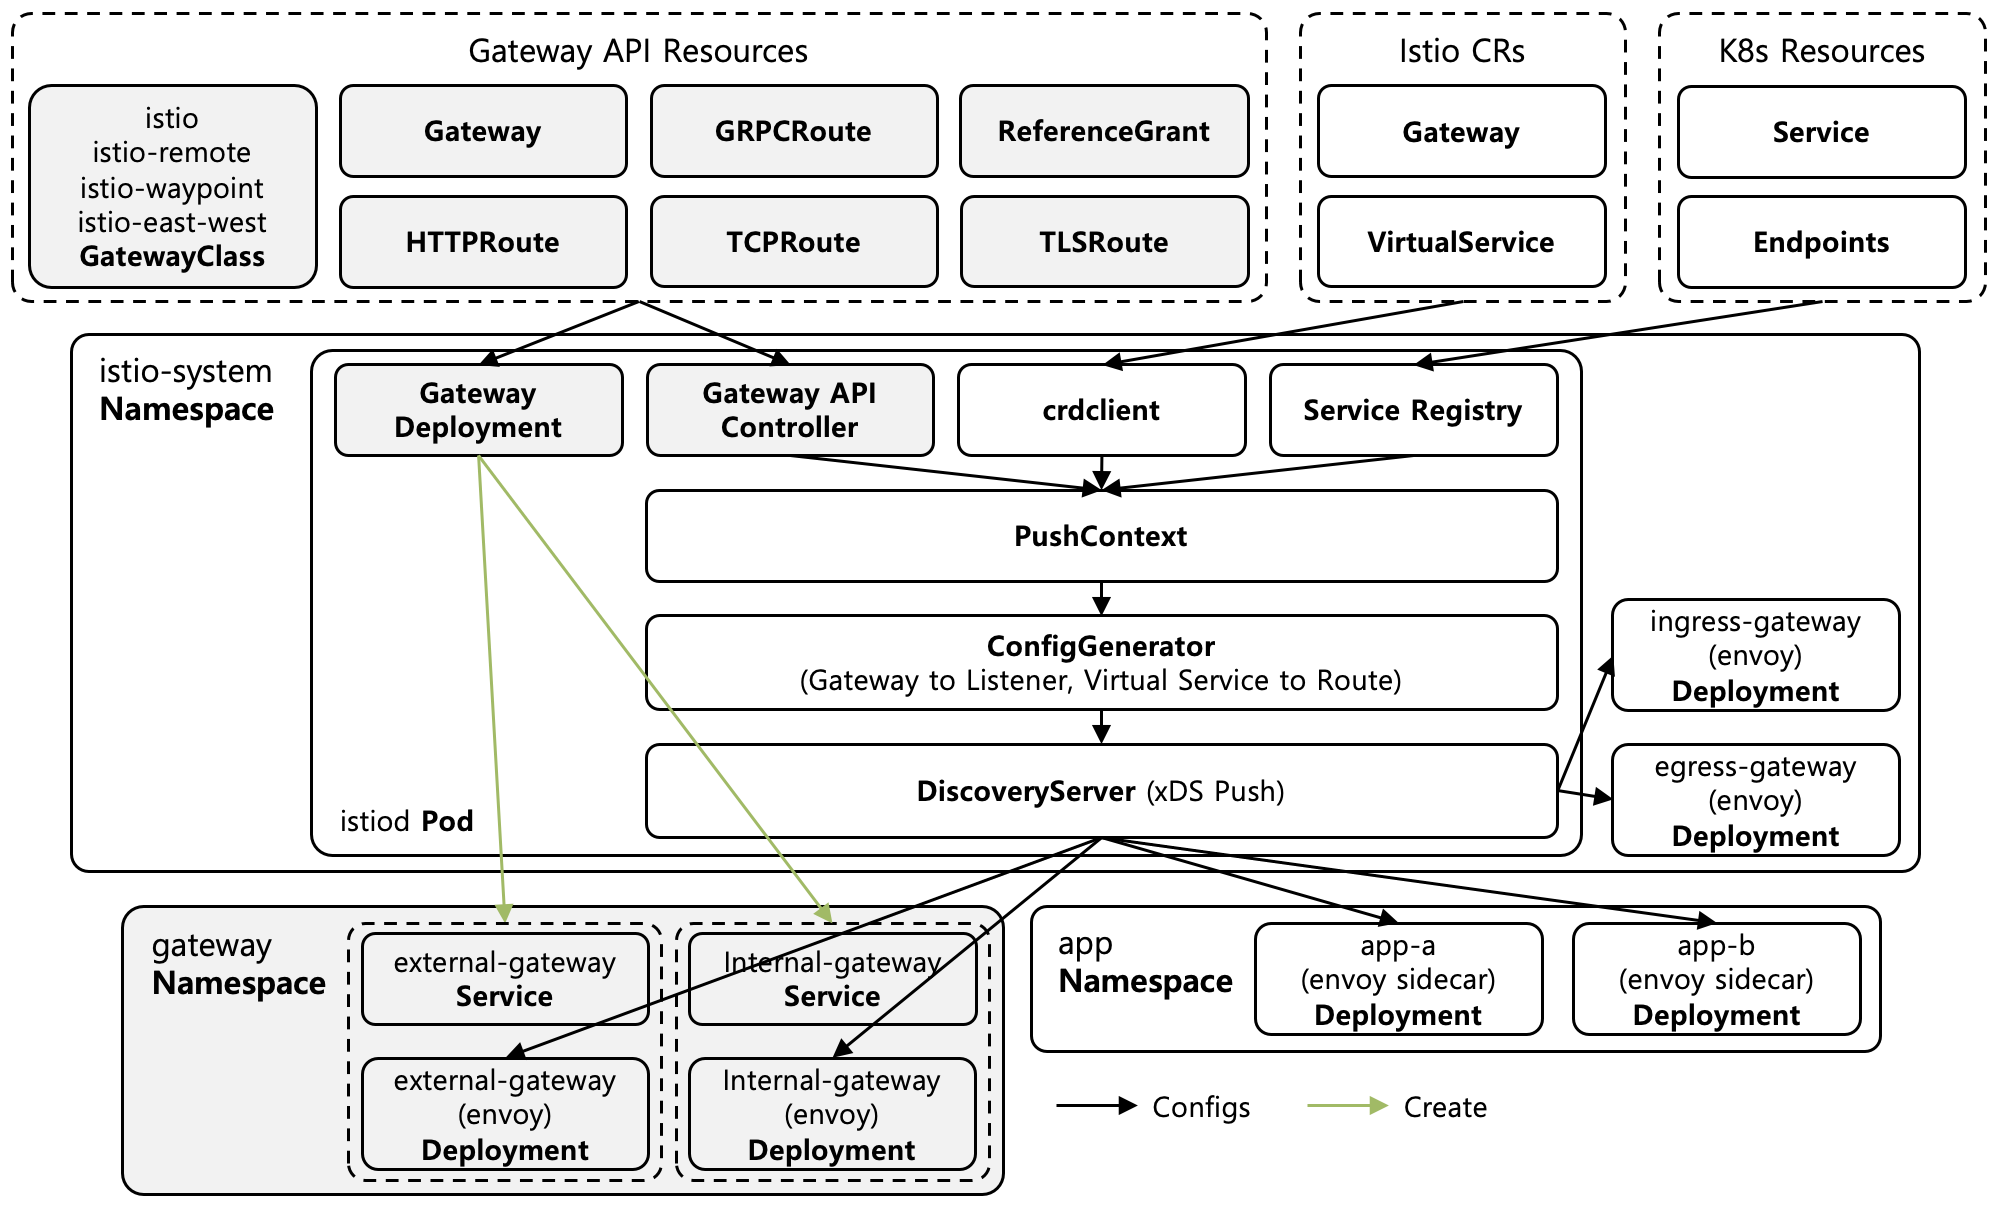
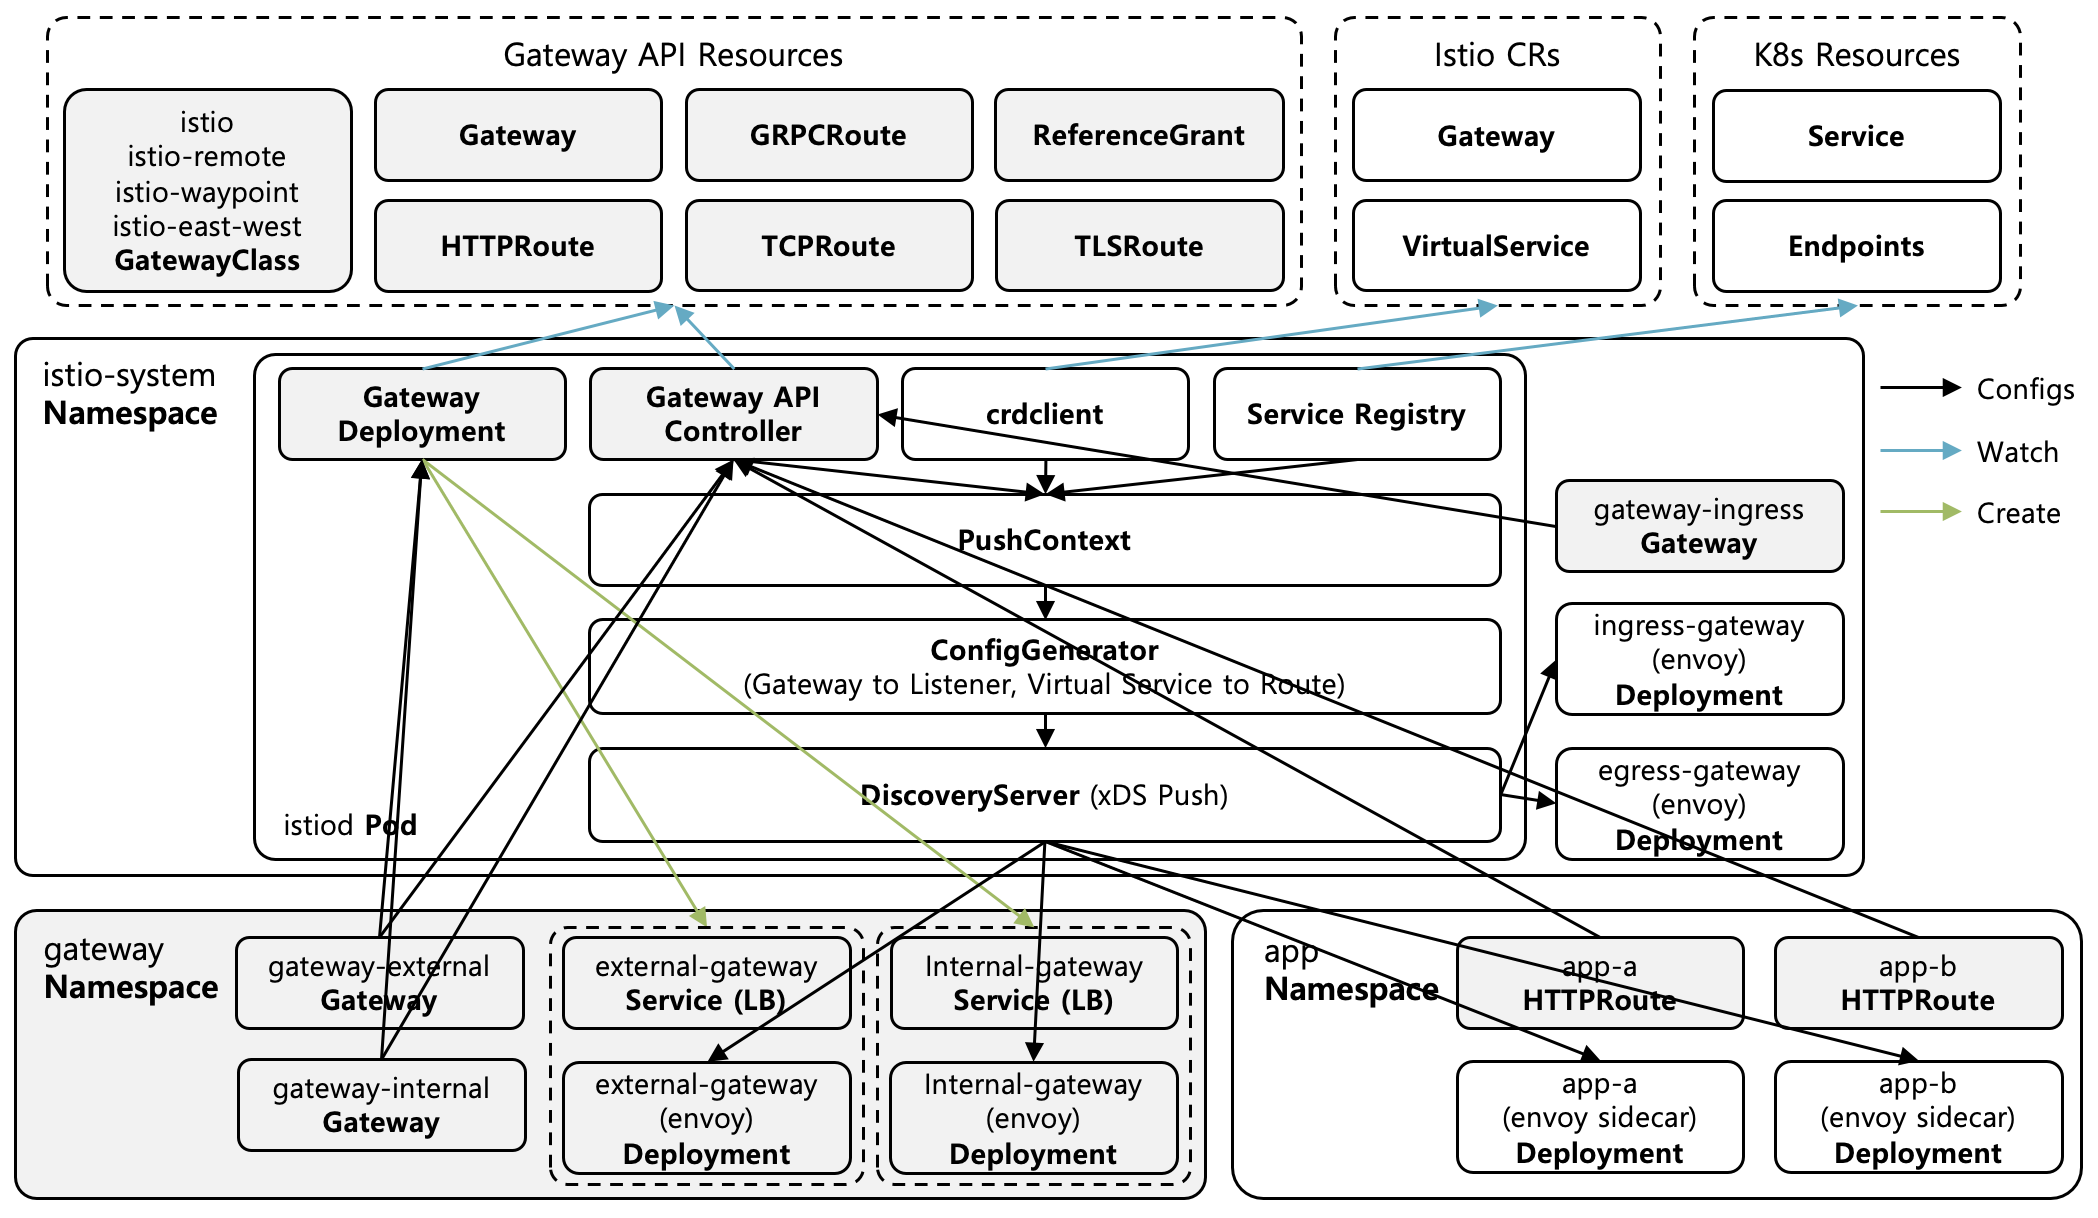
Redraw Figure 1 with watch arrows and rewrite its description

diff --git a/content/docs/theory-analysis/istio-gateway-api/index.en.md b/content/docs/theory-analysis/istio-gateway-api/index.en.md
@@ -10,9 +10,11 @@ This post analyzes how Istio implements and operates the Kubernetes Gateway API.
 
 Istio provides its own Traffic management APIs, the Gateway and VirtualService Resources, but it also serves as an implementation of the **Gateway API**, the Kubernetes standard API. Istio plans to transition to the Gateway API as its default Traffic management API in the future, and the Waypoint of the new Ambient Mode also operates based on the Gateway API. Since the CRDs of the Gateway API are not included in Istio, they must be installed separately, and once the CRDs are installed, istiod Watches and processes Gateway API Resources, so no separate Controller installation is required.
 
-[Figure 1] shows the architecture of the Istio Gateway API. istiod's **Gateway API Controller** Watches Gateway API Resources and converts them into internal Istio Gateway and VirtualService configuration, and the converted configuration is gathered into the **PushContext** together with the Istio CR configuration Watched by the **crdclient** and the Kubernetes Service and Endpoints information Watched by the **Service Registry**. The **ConfigGenerator** then converts the Gateway configuration into Envoy Listener configuration and the VirtualService configuration into Envoy Route configuration, and the **DiscoveryServer** delivers the converted configuration to the Envoys of Gateways and Sidecars via xDS. Therefore, even when using the Gateway API, the actual Traffic processing behavior is identical to the case of using the Istio API.
+[Figure 1] shows the architecture of the Istio Gateway API. istiod's **Gateway API Controller** Watches Gateway API Resources such as Gateways and HTTPRoutes created in each Namespace and converts them into internal Istio Gateway and VirtualService configuration, and the converted configuration is gathered into the **PushContext** together with the Istio CR configuration Watched by the **crdclient** and the Kubernetes Service and Endpoints information Watched by the **Service Registry**.
 
-istiod's **Gateway Deployment Controller** Watches Gateway Resources and is responsible for directly creating the Deployment where Envoy runs and the Service that receives Traffic, and multiple Gateways can be created and used in the required Namespaces, like the external-gateway and internal-gateway in the gateway Namespace of [Figure 1].
+The **ConfigGenerator** then converts the Gateway configuration gathered in the PushContext into Envoy Listener configuration and the VirtualService configuration into Envoy Route configuration, and the **DiscoveryServer** delivers the converted configuration via xDS to every Envoy, including the Ingress/Egress Gateways and the Sidecars. Therefore, even when using the Gateway API, the actual Traffic processing behavior is identical to the case of using the Istio API.
+
+istiod's **Gateway Deployment Controller** Watches Gateway Resources and is responsible for directly creating the Deployment where Envoy runs and the Service that receives Traffic. As in the gateway Namespace of [Figure 1], creating the `gateway-external` and `gateway-internal` Gateways creates the external-gateway and internal-gateway Services and Deployments respectively, which allows multiple Gateways to be placed and used in the required Namespaces.
 
 {{< table caption="[Table 1] GatewayClass Types Provided by Istio" >}}
 | GatewayClass | Purpose |

diff --git a/content/docs/theory-analysis/istio-gateway-api/index.md b/content/docs/theory-analysis/istio-gateway-api/index.md
@@ -10,9 +10,11 @@ Istio가 Kubernetes Gateway API를 어떻게 구현하여 동작하는지 분석
 
 Istio는 자체 Traffic 관리 API인 Gateway, VirtualService Resource를 제공하지만, Kubernetes 표준 API인 **Gateway API**의 구현체 역할도 수행한다. Istio는 향후 Gateway API를 기본 Traffic 관리 API로 전환할 계획이며, 신규 기능인 Ambient Mode의 Waypoint도 Gateway API를 기반으로 동작한다. Gateway API의 CRD는 Istio에 포함되어 있지 않기 때문에 별도로 설치되어야 하며, CRD가 설치되어 있으면 istiod가 Gateway API Resource를 Watch하여 처리하기 때문에 별도의 Controller 설치는 필요하지 않다.
 
-[Figure 1]은 Istio Gateway API의 구성을 나타내고 있다. istiod의 **Gateway API Controller**는 Gateway API Resource를 Watch하여 내부의 Istio Gateway, VirtualService 설정으로 변환하며, 변환된 설정은 **crdclient**가 Watch하는 Istio CR의 설정, **Service Registry**가 Watch하는 Kubernetes Service, Endpoints 정보와 함께 **PushContext**로 모인다. 이후 **ConfigGenerator**는 Gateway 설정을 Envoy의 Listener 설정으로, VirtualService 설정을 Envoy의 Route 설정으로 변환하며, **DiscoveryServer**는 변환된 설정을 xDS를 통해서 Gateway와 Sidecar의 Envoy에 전달한다. 따라서 Gateway API를 이용해도 실제 Traffic 처리 방식은 Istio API를 이용하는 경우와 동일하다.
+[Figure 1]은 Istio Gateway API의 구성을 나타내고 있다. istiod의 **Gateway API Controller**는 각 Namespace에 생성된 Gateway, HTTPRoute 같은 Gateway API Resource를 Watch하여 내부의 Istio Gateway, VirtualService 설정으로 변환하며, 변환된 설정은 **crdclient**가 Watch하는 Istio CR의 설정, **Service Registry**가 Watch하는 Kubernetes Service, Endpoints 정보와 함께 **PushContext**로 모인다.
 
-istiod의 **Gateway Deployment Controller**는 Gateway Resource를 Watch하여 Envoy가 동작하는 Deployment와 Traffic을 수신하는 Service를 직접 생성하는 역할을 수행하며, [Figure 1]의 gateway Namespace의 external-gateway, internal-gateway처럼 필요한 Namespace에 다수의 Gateway를 생성하여 이용할 수 있다.
+이후 **ConfigGenerator**는 PushContext에 모인 Gateway 설정을 Envoy의 Listener 설정으로, VirtualService 설정을 Envoy의 Route 설정으로 변환하며, **DiscoveryServer**는 변환된 설정을 xDS를 통해서 Ingress/Egress Gateway와 Sidecar를 포함한 모든 Envoy에 전달한다. 따라서 Gateway API를 이용해도 실제 Traffic 처리 방식은 Istio API를 이용하는 경우와 동일하다.
+
+istiod의 **Gateway Deployment Controller**는 Gateway Resource를 Watch하여 Envoy가 동작하는 Deployment와 Traffic을 수신하는 Service를 직접 생성하는 역할을 수행한다. [Figure 1]의 gateway Namespace처럼 `gateway-external`, `gateway-internal` Gateway를 생성하면 각각 external-gateway, internal-gateway Service와 Deployment가 생성되며, 이를 통해서 필요한 Namespace에 다수의 Gateway를 두고 이용할 수 있다.
 
 {{< table caption="[Table 1] Istio가 제공하는 GatewayClass 종류" >}}
 | GatewayClass | 용도 |
